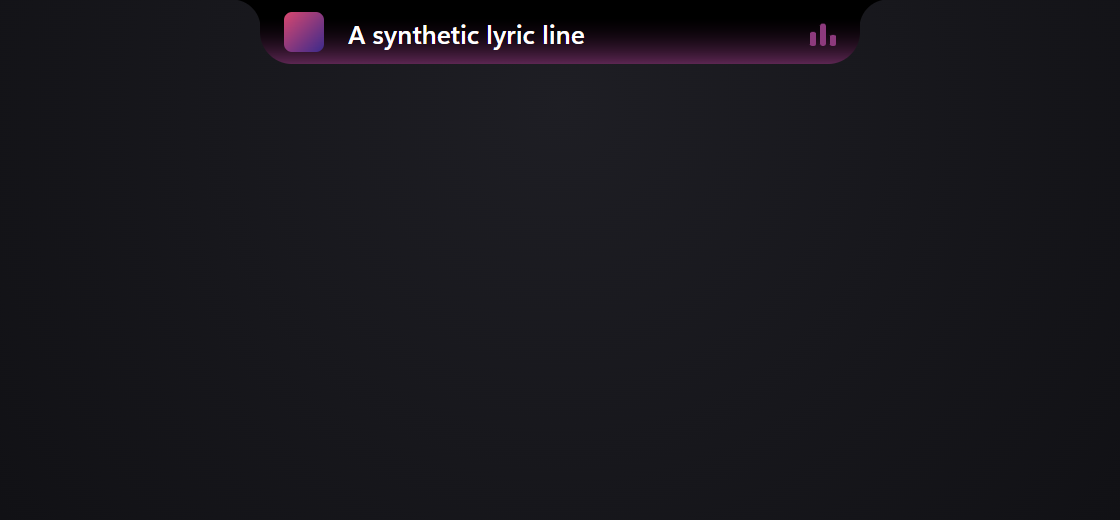
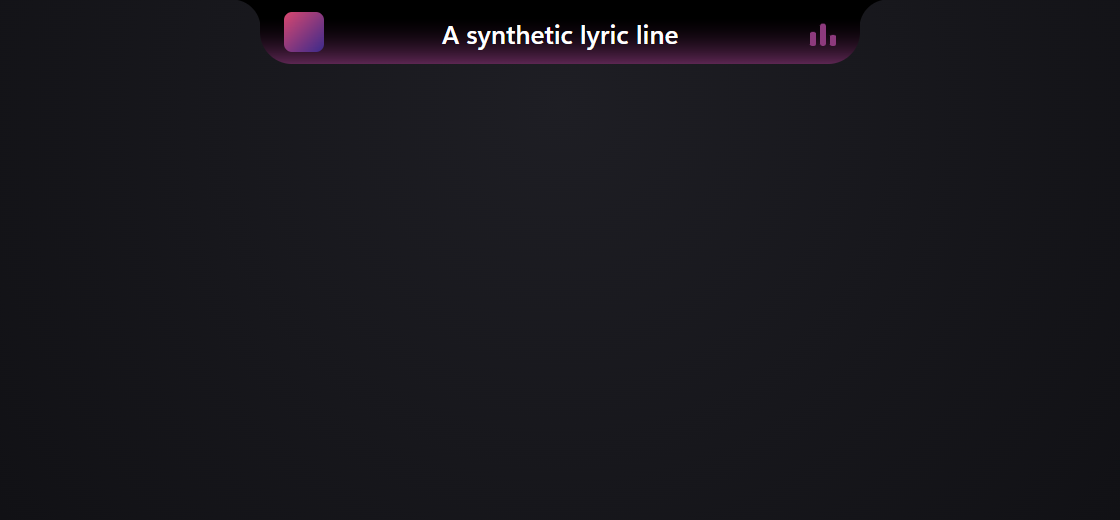
fix(ui): centre collapsed text and hold a lyric through blank lines
Equal side columns centre the text on the pill. A blank timed line is a short
gap, so the last words stay up instead of flipping to the title.

Changed region(s): [[0.3125, 0.0308, 0.625, 0.0923]]

diff --git a/src/live-ui.ts b/src/live-ui.ts
@@ -1,7 +1,7 @@
 import { listenToEvent, mediaSeek, isTauri } from './ipc.js';
 import { SVG_ICONS } from './icons.js';
 import { nativeAction, nativeService, normalizeClipboard, normalizeDictation, normalizeTelemetry, type ClipboardSnapshot, type DictationSnapshot, type LyricsSnapshot, type MediaSession, type TelemetrySnapshot } from './live-services.js';
-import { historyPath, lyricIndex, lyricOffsetFor, matchesLyricRequest, MAX_LYRIC_OFFSET_MS, measuredPercent, newRequestId, parseLrc, readPreferences, TelemetryGate, withLyricOffset, writePreferences, type LyricLine } from './live-state.js';
+import { historyPath, heldLyric, lyricIndex, lyricOffsetFor, matchesLyricRequest, MAX_LYRIC_OFFSET_MS, measuredPercent, newRequestId, parseLrc, readPreferences, TelemetryGate, withLyricOffset, writePreferences, type LyricLine } from './live-state.js';
 import { formatClockTime } from './time-format.js';
 import { createRing, usageTone, type Ring } from './rings.js';
 import type { MediaState } from './types.js';
@@ -81,7 +81,7 @@ export function mountLivePages(onLayout: () => void): {
     lastPosition = position;
     const pastLyrics = lines.length > 0 && position > lines[lines.length - 1].atMs + 20000;
     const index = pastLyrics ? -1 : lyricIndex(lines, position);
-    currentLyric = index >= 0 ? lines[index].text : '';
+    currentLyric = heldLyric(lines, index);
     if (index === activeLine) return;
     activeLine = index;
     [...lyricList.children].forEach((el, i) => {

diff --git a/src/tests/live-state.test.ts b/src/tests/live-state.test.ts
@@ -1,5 +1,5 @@
 import { describe, expect, test } from 'bun:test';
-import { historyPath, lyricIndex, lyricOffsetFor, matchesLyricRequest, MAX_LYRIC_OFFSETS, measuredPercent, normalizePreferences, parseLrc, TelemetryGate, withLyricOffset } from '../live-state';
+import { heldLyric, historyPath, lyricIndex, lyricOffsetFor, matchesLyricRequest, MAX_LYRIC_OFFSETS, measuredPercent, normalizePreferences, parseLrc, TelemetryGate, withLyricOffset } from '../live-state';
 
 describe('live island state', () => {
   test('bounds saved geometry and delays while retaining explicit choices', () => {
@@ -80,5 +80,13 @@ describe('live island state', () => {
     expect(gate.failed()).toBe(false); expect(gate.failed()).toBe(false); expect(gate.failed()).toBe(true);
     gate.accept(200);
     expect(gate.failed()).toBe(false);
+  });
+  test('keeps the last words up through a blank timed line', () => {
+    const lines = [{ atMs: 3000, text: 'Ooh' }, { atMs: 7000, text: '' }, { atMs: 9000, text: 'I just woke up' }];
+    expect(heldLyric(lines, -1)).toBe('');
+    expect(heldLyric(lines, 0)).toBe('Ooh');
+    expect(heldLyric(lines, 1)).toBe('Ooh');
+    expect(heldLyric(lines, 2)).toBe('I just woke up');
+    expect(heldLyric([{ atMs: 0, text: '' }], 0)).toBe('');
   });
 });

diff --git a/src/styles.css b/src/styles.css
@@ -253,7 +253,8 @@ body.fullscreen-hidden .island {
 
 /* Title and lyric modes keep a stable per-track shell width; long text reuses the marquee. */
 .island[data-state="idle"][data-compact-text] .compact {
-  grid-template-columns: var(--s-6) minmax(0, 1fr) auto;
+  /* Equal side columns keep the text centred on the pill */
+  grid-template-columns: var(--s-6) minmax(0, 1fr) var(--s-6);
 }
 
 .island[data-state="open"] .compact {
@@ -322,7 +323,7 @@ body.fullscreen-hidden .island {
   overflow: hidden;
   white-space: nowrap;
   text-overflow: ellipsis;
-  text-align: left;
+  text-align: center;
 }
 
 /* Inline at rest, so an overflowing line ends in an ellipsis; a box only while it scrolls */

diff --git a/src/live-state.ts b/src/live-state.ts
@@ -101,6 +101,11 @@ export function lyricIndex(lines: LyricLine[], positionMs: number): number {
   while (low < high) { const mid = (low + high) >>> 1; if (lines[mid].atMs <= positionMs) low = mid + 1; else high = mid; }
   return low - 1;
 }
+/** The line to show at `index`: a blank timed line is a short gap, so the last words stay up. */
+export function heldLyric(lines: LyricLine[], index: number): string {
+  for (let i = index; i >= 0; i--) if (lines[i].text) return lines[i].text;
+  return '';
+}
 export function measuredPercent(value: unknown): number | null {
   return typeof value === 'number' && Number.isFinite(value) && value >= 0 && value <= 100 ? value : null;
 }
